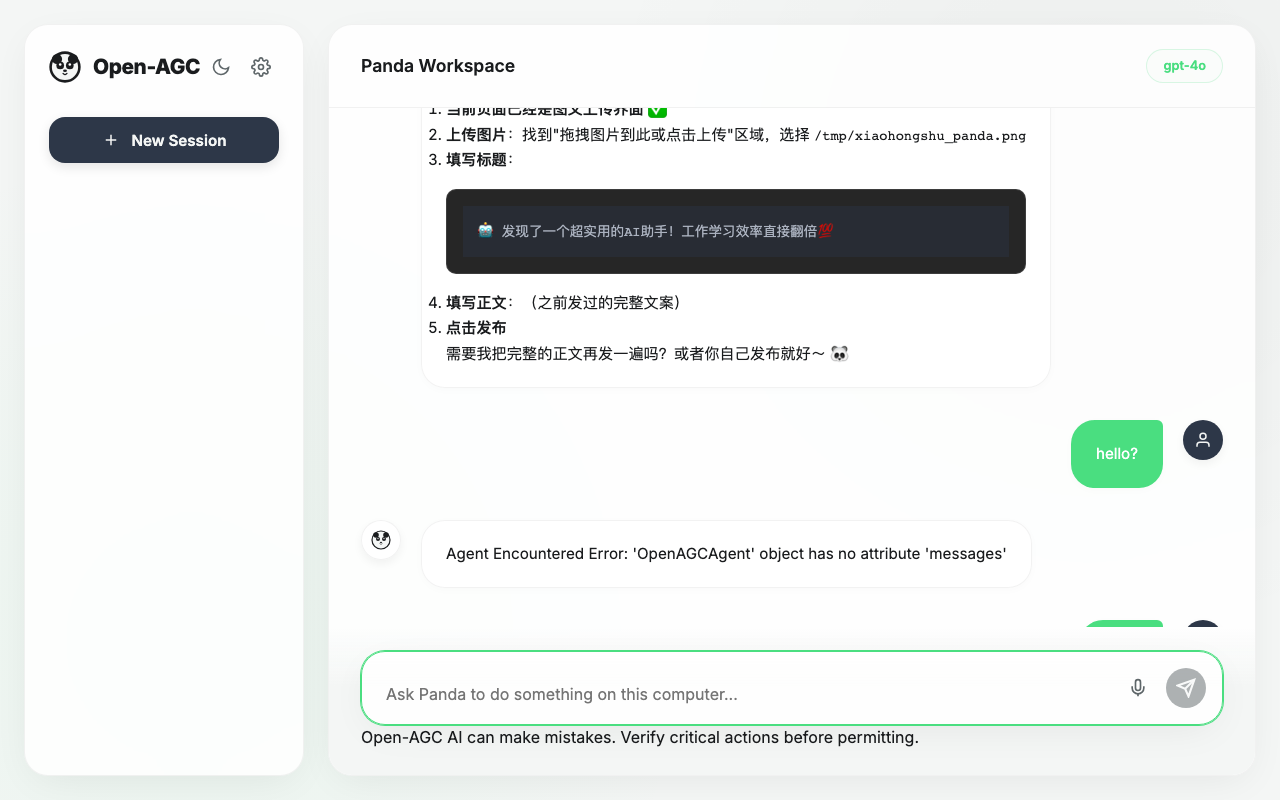
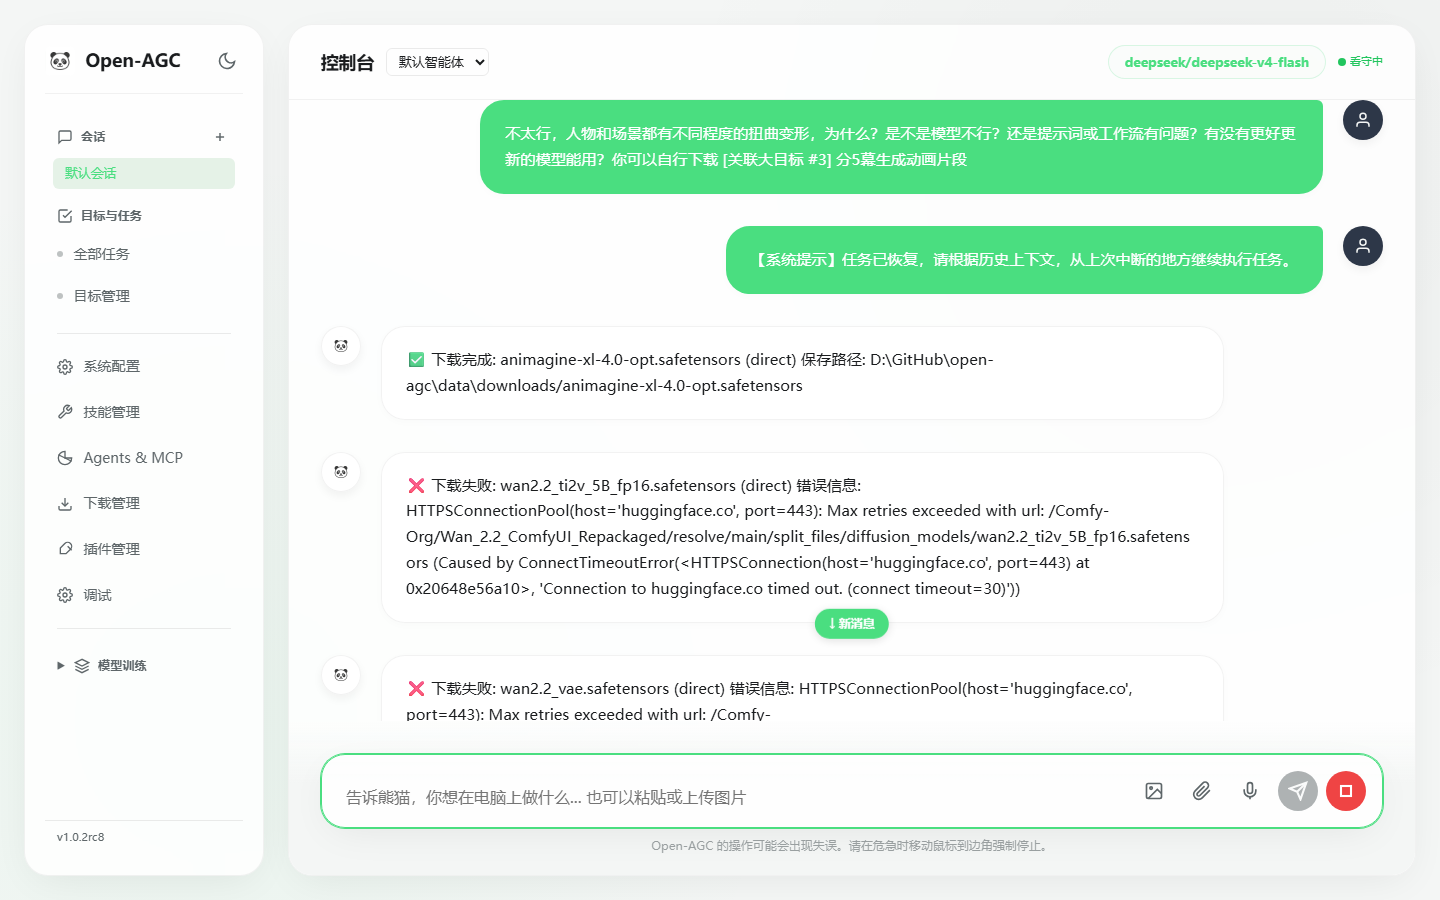
@ docs: 修复logo路径 + 更新主界面截图
- README: 修复破损的 logo 引用（icon-panda.svg → icon_rounded.png）
- README: 用 Playwright 重新截图主界面
- 调整截图区格式

@

diff --git a/README.md b/README.md
@@ -2,7 +2,7 @@
 
 > **Open-AGC (Agency) — 熊猫事务所**，一款基于本地电脑操作环境构建的全能型 AI 智能体框架。
 
-![Panda Logo](/static/icon-panda.svg)
+![Panda Logo](/static/icon_rounded.png)
 
 Open-AGC 能够自主规划、思考并执行终端命令、文件系统操作、Python 脚本、浏览器自动化以及键鼠控制。项目包含强大的抽象核心与极具现代感的 **Panda Theme（熊猫流光主题）** 网页交互界面。
 
